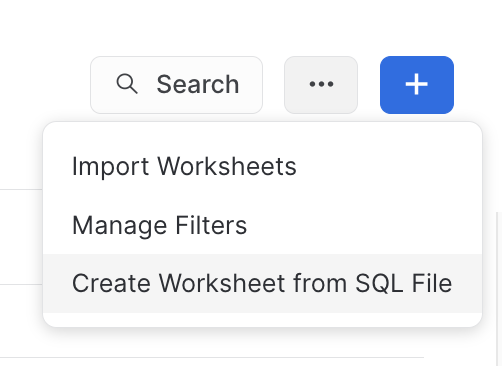
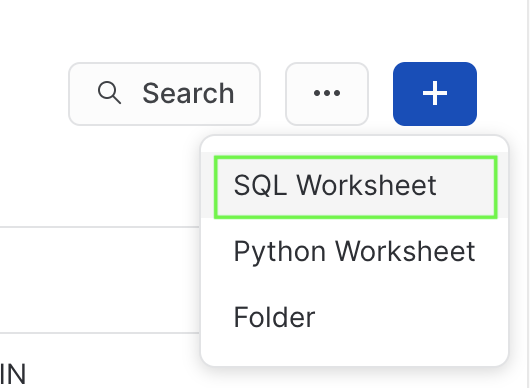
final updates before VHOL

diff --git a/site/sfguides/src/data_engineering_CDC_SnowpipeStreaming_DynamicTables/CDC_SnowpipeStreaming_DynamicTables.md b/site/sfguides/src/data_engineering_CDC_SnowpipeStreaming_DynamicTables/CDC_SnowpipeStreaming_DynamicTables.md
@@ -69,19 +69,17 @@ The first thing you will need to do is download the following two files.  The fi
 At this point login into your Snowflake account. If you have just created a free trial account, feel free to minimize or close hint boxes that are looking to help guide you. These will not be needed for this lab and most of the hints will be covered throughout the remainder of this exercise.
 
 ### c) Create a Worksheet
-In the Snowflake UI click on **Worksheets** on the left side.   
+In the Snowflake UI click on **Worksheets** on the left side.
 ![](assets/image2-1.png)
 
-Create a new Worksheet by clicking on the ** ... ** button on the top right side and click **Create Worksheet from SQL File**.    
+Create a new Worksheet by clicking on the ** + ** button on the top right side and click **SQL Worksheet** which will create a new worksheet in a tab.
 ![](assets/image2-2.png)
 
-You can now select the .sql file you downloaded and named earlier called **Data_Engineering_Streams_CDC_DT_VHOL.sql**.
+Next, from the **Tab Menu** you can rename the tab to something more meaningful and from the same menu click **Import SQL from File** and select the .sql file you downloaded and named earlier called **Data_Engineering_Streams_CDC_DT_VHOL.sql**.
+![](assets/image2-3.png)
 
 Each step throughout the Snowflake portion of the guide has an associated SQL command to perform the work we are looking to execute, and so feel free to step through each action running the code one command at-a-time as you walk through the lab.
 
-### d) Set your Role
-Finally, switch to the ACCOUNTADMIN role.  If you just created an evaluation account to go through this Lab, this should be easy.  However, if you are using an established account and find this role missing from your list, you may need assistance to complete the next few steps.  Creating a Role, Database, Stages, Tasks, and monitoring tasks executed by 'System' requires higher-level permissions.    
-![](assets/image2-4.png)
 
 <!-- ------------------------ -->
 ## Setting up Your Desktop
@@ -393,12 +391,7 @@ from (
 WHERE action != 'DELETE' group by ticker,position order by position,TOTAL_VALUE_USD DESC
 ;
 ```
-You know to wait for the Lag by now, but you can refresh right away too:
-```
-alter DYNAMIC TABLE LIMIT_ORDERS_SUMMARY_DT refresh;
-```
-Now, table is ready for queries and note it shows you the statistics on this refresh performed.
-
+Table is created and populated.
 ```
 select * from LIMIT_ORDERS_SUMMARY_DT where position='LONG' order by TOTAL_VALUE_USD;;
 ```
@@ -650,6 +643,3 @@ Duration: 2
 - Created Multiple Dynamic Tables for Data Engineering Tasks
 - Secured Sensitive Fields, beginning from the Source, but also decrypted for those authorized
 
-
-### Related Resources
-**(Will be available once these capabilities move to Public Preview)**
